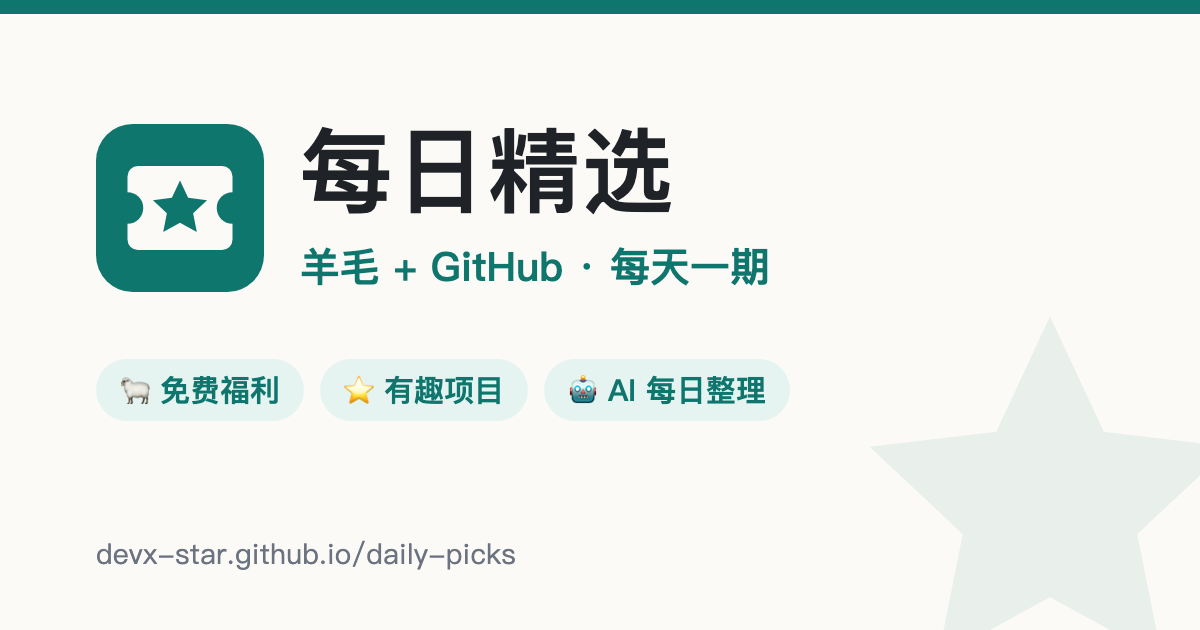
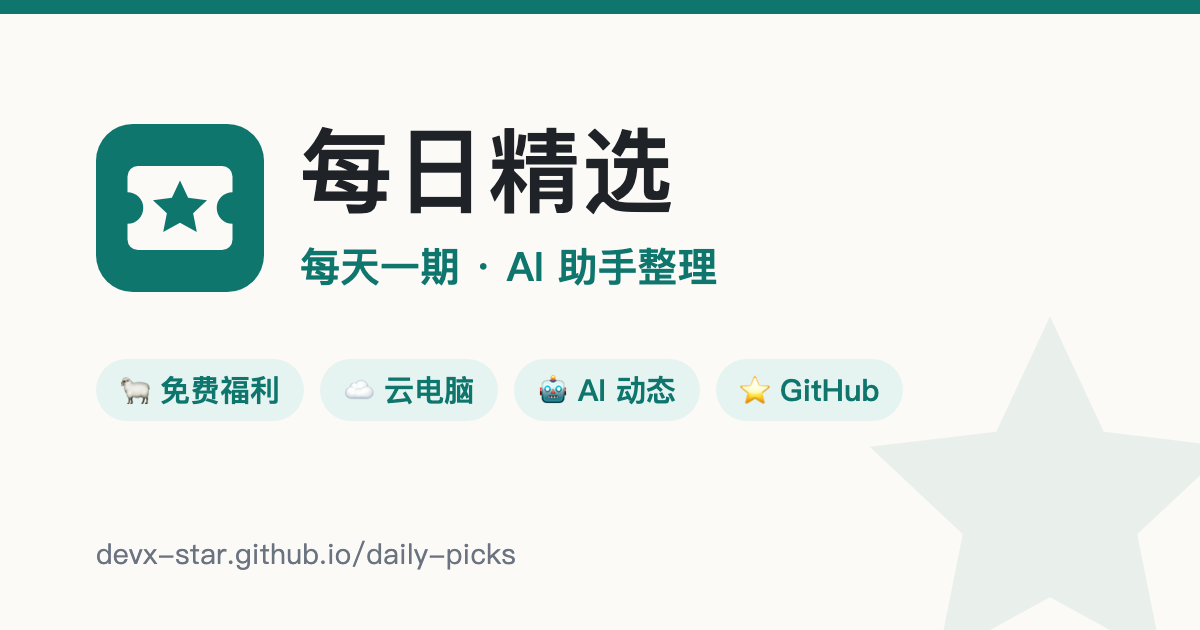
content: add 云电脑 & AI sections; update tagline and share card

Changed region(s): [[0.2775, 0.573, 0.74, 0.6635], [0.2467, 0.3921, 0.6475, 0.4524]]

diff --git a/assets/og-source.html b/assets/og-source.html
@@ -30,13 +30,14 @@
       <img class="logo" src="logo.svg" alt="">
       <div>
         <h1>每日精选</h1>
-        <div class="sub">羊毛 + GitHub · 每天一期</div>
+        <div class="sub">每天一期 · AI 助手整理</div>
       </div>
     </div>
     <div class="chips">
       <span class="chip">🐑 免费福利</span>
-      <span class="chip">⭐ 有趣项目</span>
-      <span class="chip">🤖 AI 每日整理</span>
+      <span class="chip">☁ 云电脑</span>
+      <span class="chip">🤖 AI 动态</span>
+      <span class="chip">⭐ GitHub</span>
     </div>
   </div>
   <div class="url">devx-star.github.io/daily-picks</div>

diff --git a/_layouts/default.html b/_layouts/default.html
@@ -23,7 +23,7 @@
 <body>
   <header class="site">
     <a class="brand" href="{{ '/' | relative_url }}"><img src="{{ '/assets/logo.svg' | relative_url }}" alt="" width="28" height="28">每日精选</a>
-    <span class="tag">羊毛 · GitHub</span>
+    <span class="tag">羊毛 · 云 · AI · GitHub</span>
   </header>
   <main>
     {{ content }}

diff --git a/index.html b/index.html
@@ -2,7 +2,7 @@
 layout: default
 ---
 <section class="hero">
-  <h1>每天一期，羊毛 + GitHub</h1>
+  <h1>每天一期：羊毛 · 云电脑 · AI · GitHub</h1>
   <p>{{ site.description }}</p>
 </section>
 

diff --git a/MUSE.md b/MUSE.md
@@ -1,6 +1,6 @@
 # Muse 每日任务说明：daily-picks
 
-每天做一期「羊毛 + GitHub 精选」，发布到 https://devx-star.github.io/daily-picks/
+每天做一期「羊毛 · 云电脑 · AI · GitHub 精选」，发布到 https://devx-star.github.io/daily-picks/
 
 ## 环境
 
@@ -22,21 +22,43 @@
 
 ## 内容要求
 
-**🐑 羊毛：3–6 条**
-- 只收**免费可领**的：免费额度、免费试用（不需绑卡优先）、限免软件/游戏、开发者福利、教育优惠等
-- 每条写清：能领到什么、门槛（是否需信用卡/新用户/特定地区）、截止时间、官方链接
-- 链接必须是**官方页面**，不要用别人的推荐/邀请链接
-- 自己打开确认过还有效才收录
+每期四个栏目，按下面顺序排。**同一条内容只放一个栏目**，按「归属」判断放哪。
+某个栏目当天确实没有合格内容，可以少收，但要在栏目里写一句「今天没有值得收录的」，不要硬凑。
 
-**⭐ GitHub：5–8 个**
+**🐑 今日羊毛：3–5 条**
+- 归属：游戏、软件、域名、会员、开发者工具、教育优惠等**不属于云和 AI** 的免费福利
+- 只收**免费可领**的；免费试用优先收不需绑卡的
+- 每条写清：能领到什么、门槛（是否需信用卡/新用户/特定地区）、截止时间、官方链接
+
+**☁ 云电脑 & 云资源：2–4 条**
+- 归属：云电脑/云桌面/云手机、VPS 和云服务器、GPU 算力、对象存储、Serverless 等的**免费额度、试用、赠金、限时活动**
+  - 例：甲骨文/AWS/GCP/Azure 免费套餐和赠金变化、阿里云无影/腾讯云等云电脑试用、Colab/Kaggle/Lightning 等免费 GPU、新出现的免费 VPS 或建站平台
+- 每条额外写清：**配置**（CPU/内存/显卡/流量）、**免费时长或额度**、**要不要绑卡**、**是否限地区或要实名**
+- 有明显坑（到期自动扣费、容易被回收、需要国际信用卡）要在门槛里写出来
+
+**🤖 AI 动态 & 免费额度：3–5 条**
+- 归属：AI 相关的新闻和福利：
+  - **新发布**：重要的新模型、新产品、大版本更新（一句话说清是什么、比之前强在哪）
+  - **免费额度**：AI 工具/API 的免费额度、赠送积分、限时免费（门槛写法同羊毛）
+  - **值得一试的新工具**：新出的、普通人也能直接用的 AI 产品
+- 只收有官方来源（官方博客、官方公告、产品官网）的，不收传闻和营销号二手消息
+- AI 相关的**开源仓库**放到 GitHub 栏目，不放这里
+
+**⭐ GitHub 有趣项目：5–8 个**
 - 有意思、实用、或者新奇的项目，不只是星多。避免连续几天收录同一个项目
 - 每个写：仓库链接、语言、星数（今日新增）、一句话是干什么的、一句话为什么值得看
 
+**所有栏目通用**
+- 链接必须是**官方页面**，不要用别人的推荐/邀请链接
+- 自己打开确认过还有效才收录
+- 开头那句导读，从四个栏目里挑当天最值得看的两三条来写
+
 ## 参考来源（可以自己扩展）
 
+- 羊毛：Epic 每周限免 `store.epicgames.com/zh-CN/free-games`、Steam 限免、V2EX 的「免费赠送」等节点、Product Hunt、Reddit r/AppHookup、r/googleplaydeals
+- 云电脑 & 云资源：各云厂商的免费套餐页（`oracle.com/cloud/free`、`aws.amazon.com/free`、`cloud.google.com/free`、`azure.microsoft.com/free`）、阿里云/腾讯云/华为云的活动页、V2EX 的「VPS」「云计算」节点、LowEndTalk、Reddit r/selfhosted
+- AI：各大模型厂商官方博客和新闻页（OpenAI、Anthropic、Google DeepMind、Meta AI、DeepSeek、通义千问、智谱、月之暗面等）、Hugging Face 热门、Product Hunt 的 AI 分类、Hacker News 首页
 - GitHub：`github.com/trending`（今日）、`github.com/trending?since=weekly`、Hacker News 的 Show HN
-- 羊毛：Epic 每周限免 `store.epicgames.com/zh-CN/free-games`、Steam 限免、
-  V2EX 的「免费赠送」等节点、Product Hunt、各大云/AI 厂商的免费额度公告、Reddit r/AppHookup、r/googleplaydeals
 
 ## 规矩（必须遵守）
 

diff --git a/TEMPLATE.md b/TEMPLATE.md
@@ -5,7 +5,7 @@ date: 2026-11-18 09:00:00 +0800
 summary: "一句话摘要，会显示在首页列表里，60 字以内"
 ---
 
-> 今天最值得领的是 XXX；GitHub 上最有意思的是 YYY。
+> 今天最值得领的是 XXX；云电脑方面 YYY；AI 圈最大的事是 ZZZ；GitHub 上最有意思的是 WWW。
 
 ## 🐑 今日羊毛
 
@@ -13,17 +13,29 @@ summary: "一句话摘要，会显示在首页列表里，60 字以内"
   门槛：无需信用卡 / 需新用户 / 需 Google 账号 · 截止：2026-11-30 或「长期」
   [官方链接](https://example.com)
 
-- **福利名称**（平台/产品）— ……
+## ☁ 云电脑 & 云资源
+
+- **福利名称**（厂商/平台）— 能拿到什么，一两句话说清楚。
+  配置：4 核 / 8G / 100G SSD / 每月 1TB 流量（GPU 写型号和显存）· 免费时长：12 个月 / 永久 / 赠金 $300（90 天）
+  门槛：需绑国际信用卡 / 需实名 / 仅限新用户 / 限地区 · 坑：到期自动转付费，记得关
+  [官方链接](https://example.com)
+
+## 🤖 AI 动态 & 免费额度
+
+- **【新发布】名称**（公司）— 是什么，比之前强在哪，一两句话。
+  [官方公告](https://example.com)
+
+- **【免费额度】名称**（产品）— 能领多少、能干什么。
   门槛：…… · 截止：……
   [官方链接](https://example.com)
+
+- **【新工具】名称** — 做什么用的，适合谁，一两句话。
+  [官网](https://example.com)
 
 ## ⭐ GitHub 有趣项目
 
 - **[owner/repo](https://github.com/owner/repo)** · 语言 · ★ 1.2k（今日 +300）
   它是做什么的，一句话。为什么有意思 / 适合谁用，一句话。
-
-- **[owner/repo](https://github.com/owner/repo)** · 语言 · ★ ……
-  ……
 
 ## 📝 备注
 

diff --git a/README.md b/README.md
@@ -1,6 +1,6 @@
 # daily-picks
 
-每天一期：值得领的免费福利 + GitHub 上有意思的项目。
+每天一期：免费福利、云电脑和云资源、AI 新动态，以及 GitHub 上有意思的项目。
 
 在线阅读：https://devx-star.github.io/daily-picks/
 
